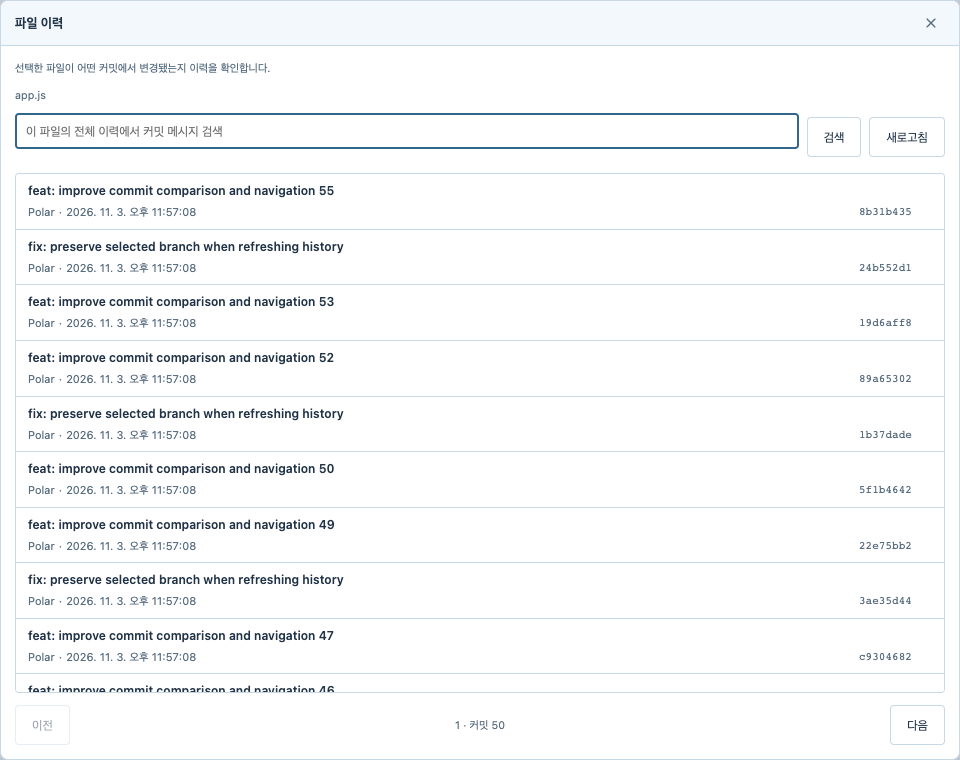
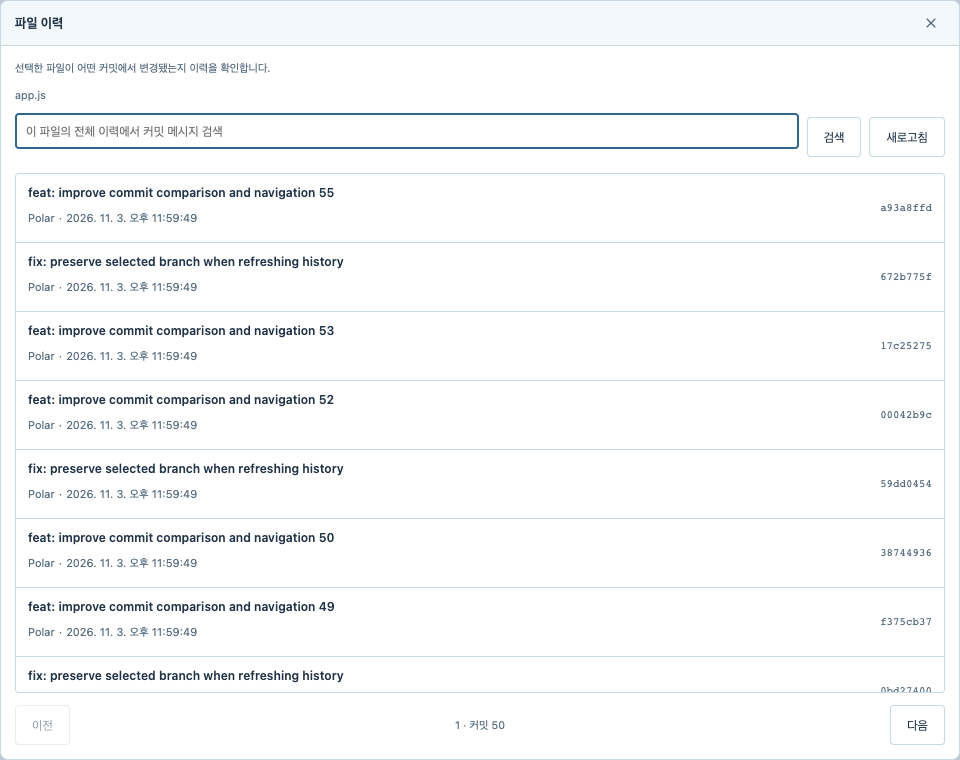
style: highlight whole file history rows and center hashes

diff --git a/public/file-history.js b/public/file-history.js
@@ -9,8 +9,10 @@ async function showFileHistory(name){
  async function load(target=0,reset=false){
   const request=++version;if(reset)revision=null;previous.disabled=next.disabled=true;list.setAttribute('aria-busy','true');list.replaceChildren(PgitUI.message('불러오는 중…'));
   try{const result=await api('fileHistoryPage',{name,query,offset:target,...(revision?{revision}:{})});if(!alive()||request!==version)return;revision=result.revision;offset=result.offset;list.replaceChildren();
-   for(const commit of result.commits){const row=PgitUI.listItem({title:commit.title,meta:commit.author});const title=el('button',commit.title,'file-history-open literal-data');title.type='button';title.title=commit.title;title.onclick=()=>{advancedDialog.close();tab('history');selectCommit(commit)};row.main.querySelector('strong').replaceWith(title);
-    const meta=row.main.querySelector('.ui-list-meta'),date=el('time',new Date(commit.date).toLocaleDateString(document.documentElement.lang||undefined));date.dateTime=commit.date;date.title=new Date(commit.date).toLocaleString();meta.append(el('span',' · '),date,el('code',commit.hash.slice(0,8),'literal-data'));list.append(row.element);
+   for(const commit of result.commits){
+    const row=PgitUI.listItem({title:commit.title}),button=el('button',undefined,'ui-list-item file-history-open'),main=el('span',undefined,'ui-list-main');button.type='button';button.title=commit.title;button.onclick=()=>{advancedDialog.close();tab('history');selectCommit(commit)};
+    const meta=el('span',commit.author,'ui-list-meta literal-data'),date=el('time',new Date(commit.date).toLocaleDateString(document.documentElement.lang||undefined));date.dateTime=commit.date;date.title=new Date(commit.date).toLocaleString();meta.append(el('span',' · '),date);main.append(row.main.querySelector('strong'),meta);
+    const hash=el('code',commit.hash.slice(0,8),'file-history-hash literal-data');hash.title=commit.hash;button.append(main,hash);list.append(button);
    }
    if(!result.commits.length)list.append(PgitUI.message(query?'일치하는 항목이 없습니다.':'표시할 항목이 없습니다.'));
    status.replaceChildren(el('span',String(offset/result.pageSize+1),'literal-data'),document.createTextNode(' · '),el('span','커밋'),document.createTextNode(' '+result.commits.length));previous.disabled=offset===0;next.disabled=!result.hasMore;list.scrollTop=0;

diff --git a/public/ui-components.css b/public/ui-components.css
@@ -42,10 +42,14 @@ body dialog .file-history-view>.command-help{margin:0}
 .file-history-toolbar{display:flex;gap:8px;align-items:center;flex-shrink:0}
 .file-history-toolbar input{flex:1;min-width:0}
 body dialog .file-history-list{flex:1;min-height:0;overflow:auto;overscroll-behavior:contain}
-body dialog .file-history-open{height:auto;min-height:0;margin:0;padding:0;border:0;background:transparent;text-align:left;font-weight:600;line-height:1.5;overflow-wrap:anywhere;display:-webkit-box;-webkit-line-clamp:2;-webkit-box-orient:vertical;overflow:hidden}
-body dialog .file-history-open:hover{color:var(--accent);text-decoration:underline}
-body dialog .file-history-list .ui-list-meta{display:flex;flex-wrap:wrap;align-items:center;gap:4px}
-body dialog .file-history-list code{margin-left:auto;color:var(--muted);font-size:inherit}
+body dialog .file-history-list>.file-history-open{display:flex;align-items:center;gap:20px;width:100%;height:auto;min-height:56px;margin:0;padding:10px 12px;border:0;border-bottom:1px solid var(--border);border-radius:0;background:transparent;color:var(--text);text-align:left;font-weight:400;line-height:1.5;white-space:normal;cursor:pointer}
+body dialog .file-history-list>.file-history-open:last-child{border-bottom:0}
+body dialog .file-history-list>.file-history-open:is(:hover,:focus-visible){background:var(--soft);color:var(--text)}
+body dialog .file-history-list>.file-history-open:focus-visible{outline:2px solid var(--accent);outline-offset:-2px}
+body dialog .file-history-open>.ui-list-main{flex:1;min-width:0;padding:0}
+body dialog .file-history-open .ui-list-title{display:-webkit-box;-webkit-line-clamp:2;-webkit-box-orient:vertical;overflow:hidden;overflow-wrap:anywhere;line-height:1.5}
+body dialog .file-history-open .ui-list-meta{display:flex;flex-wrap:wrap;align-items:center;gap:4px;margin-top:4px}
+body dialog .file-history-open>.file-history-hash{flex:none;align-self:center;margin:0;padding:0;background:transparent;color:var(--muted);font-size:.9em;white-space:nowrap}
 .file-history-footer{display:flex;align-items:center;justify-content:space-between;gap:8px;flex-shrink:0}
 .file-history-footer [role=status]{color:var(--muted);font-size:.9em}
 @media(max-width:540px){.file-history-toolbar{flex-wrap:wrap}.file-history-toolbar input{flex-basis:100%}body dialog.file-history-dialog[data-dialog-kind=list]{height:calc(100vh - 24px)}}
